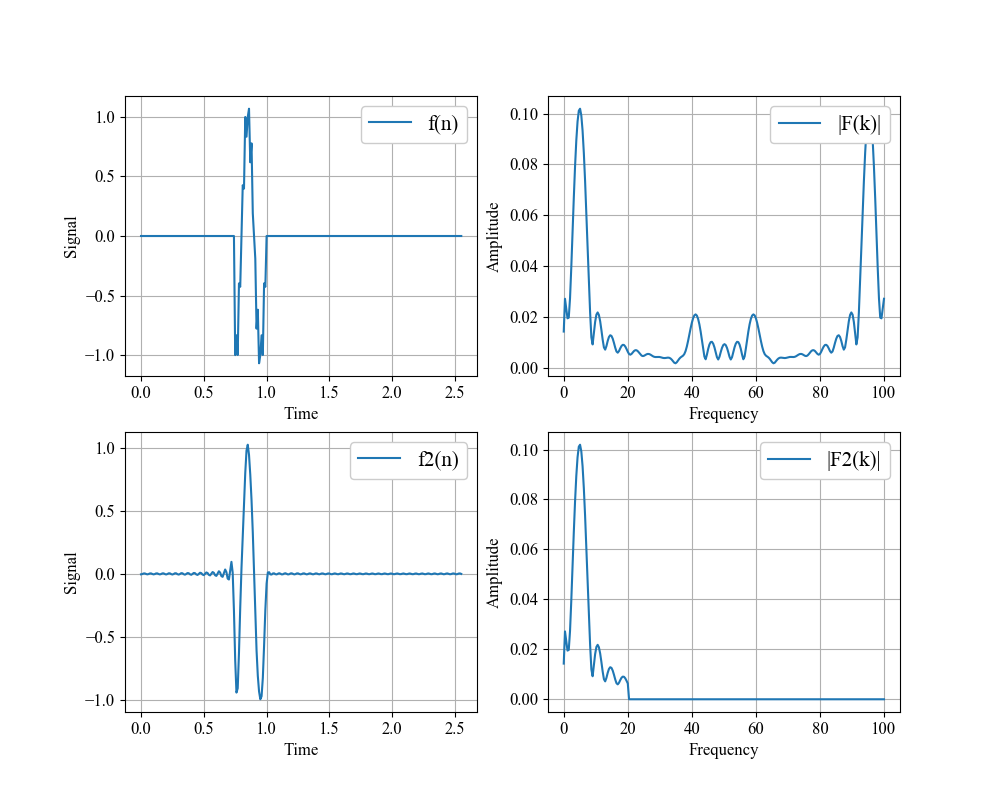
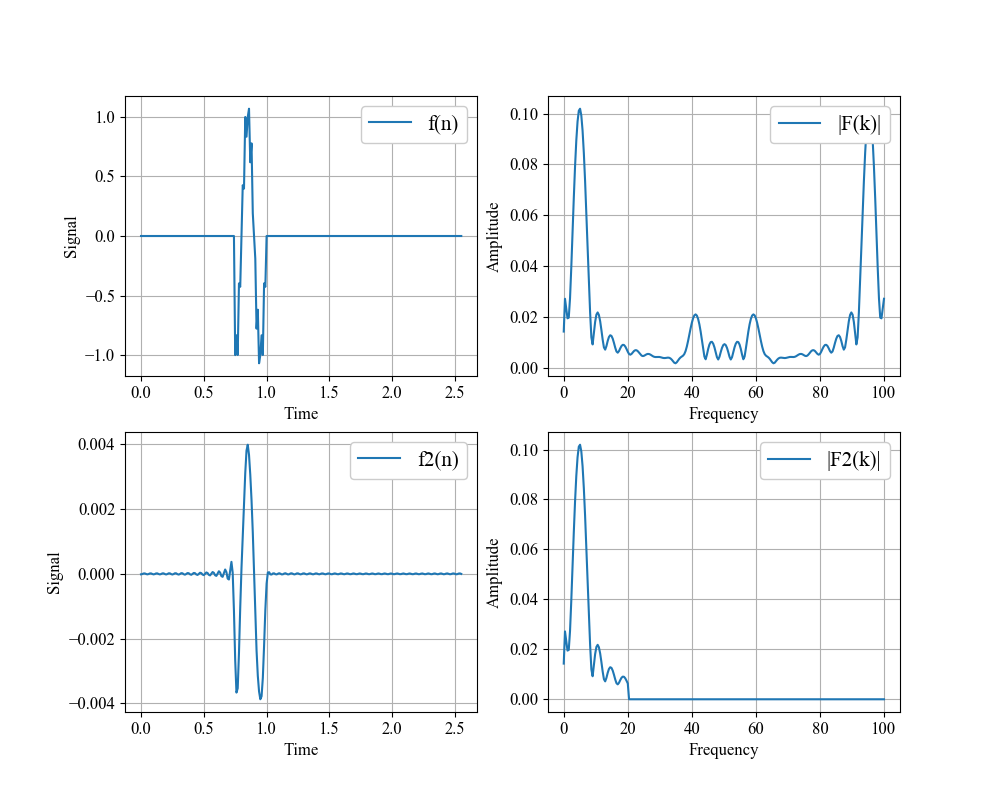
no message

diff --git a/python/numpy/fft/lpf/ex5.py b/python/numpy/fft/lpf/ex5.py
@@ -1,0 +1,90 @@
+# -*- coding: utf-8 -*-
+import numpy as np
+import matplotlib.pyplot as plt
+
+np.random.seed(0)  # 乱数seed固定
+
+# 簡単な信号の作成(正弦波 + ノイズ)
+N = 128  # サンプル数
+dt = 0.01  # サンプリング周期(sec)
+freq = 4  # 周波数(10Hz)
+amp = 1  # 振幅
+
+t = np.arange(0, N*dt, dt)  # 時間軸
+f = amp * np.sin(2*np.pi*freq*t) + np.random.randn(N)*0.3  # 信号
+
+# 高速フーリエ変換(FFT)
+F = np.fft.fft(f)
+F_abs = np.abs(F)  # 複素数を絶対値に変換
+F_abs_amp = F_abs / N * 2  # 振幅をもとの信号に揃える(交流成分2倍)
+F_abs_amp[0] = F_abs_amp[0] / 2  # 振幅をもとの信号に揃える(直流成分非2倍)
+
+# 周波数軸のデータ作成
+fq = np.linspace(0, 1.0/dt, N)  # 周波数軸　linspace(開始,終了,分割数)
+
+# フィルタリング①（周波数でカット）＊＊＊＊＊＊
+F2 = np.copy(F)  # FFT結果コピー
+fc = 10  # カットオフ（周波数）
+F2[(fq > fc)] = 0  # カットオフを超える周波数のデータをゼロにする（ノイズ除去）
+F2_abs = np.abs(F2)  # FFTの複素数結果を絶対値に変換
+F2_abs_amp = F2_abs / N * 2  # 振幅をもとの信号に揃える(交流成分2倍)
+F2_abs_amp[0] = F2_abs_amp[0] / 2  # 振幅をもとの信号に揃える(直流成分非2倍)
+F2_ifft = np.fft.ifft(F2)  # IFFT
+F2_ifft_real = F2_ifft.real * 2  # 実数部の取得、振幅を元スケールに戻す
+
+# フィルタリング②（振幅強度でカット）＊＊＊＊＊＊
+F3 = np.copy(F)  # FFT結果コピー
+ac = 0.2  # 振幅強度の閾値
+F3[(F_abs_amp < ac)] = 0  # 振幅が閾値未満はゼロにする（ノイズ除去）
+F3_abs = np.abs(F3)  # 複素数を絶対値に変換
+F3_abs_amp = F3_abs / N * 2  # 交流成分はデータ数で割って2倍
+F3_abs_amp[0] = F3_abs_amp[0] / 2  # 直流成分（今回は扱わないけど）は2倍不要
+F3_ifft = np.fft.ifft(F3)  # IFFT
+F3_ifft_real = F3_ifft.real  # 実数部の取得
+
+# グラフ表示
+fig = plt.figure(figsize=(12, 12))
+
+# グラフ表示
+# オリジナル信号
+fig.add_subplot(321)
+plt.xlabel('time(sec)', fontsize=14)
+plt.ylabel('signal', fontsize=14)
+plt.plot(t, f)
+
+# オリジナル信号 ->FFT
+fig.add_subplot(322)
+plt.xlabel('freqency(Hz)', fontsize=14)
+plt.ylabel('amplitude', fontsize=14)
+plt.plot(fq, F_abs_amp)
+
+# オリジナル信号 ->FFT ->周波数filter ->IFFT
+fig.add_subplot(323)
+plt.xlabel('time(sec)', fontsize=14)
+plt.ylabel('signal(freq.filter)', fontsize=14)
+plt.plot(t, F2_ifft_real)
+
+# オリジナル信号 ->FFT ->周波数filter
+fig.add_subplot(324)
+plt.xlabel('freqency(Hz)', fontsize=14)
+plt.ylabel('amplitude(freq.filter)', fontsize=14)
+# plt.vlines(x=[10], ymin=0, ymax=1, colors='r', linestyles='dashed')
+plt.fill_between([10, 100], [0, 0], [1, 1], color='g', alpha=0.2)
+plt.plot(fq, F2_abs_amp)
+
+# オリジナル信号 ->FFT ->振幅強度filter ->IFFT
+fig.add_subplot(325)
+plt.xlabel('time(sec)', fontsize=14)
+plt.ylabel('signal(amp.filter)', fontsize=14)
+plt.plot(t, F3_ifft_real)
+
+# オリジナル信号 ->FFT ->振幅強度filter
+fig.add_subplot(326)
+plt.xlabel('freqency(Hz)', fontsize=14)
+plt.ylabel('amplitude(amp.filter)', fontsize=14)
+# plt.hlines(y=[0.2], xmin=0, xmax=100, colors='r', linestyles='dashed')
+plt.fill_between([0, 100], [0, 0], [0.2, 0.2], color='g', alpha=0.2)
+plt.plot(fq, F3_abs_amp)
+
+plt.tight_layout()
+plt.show()

diff --git a/python/numpy/fft/lpf/ex1.py b/python/numpy/fft/lpf/ex1.py
@@ -6,12 +6,15 @@ import matplotlib.pyplot as plt
 N = 256            # サンプル数
 dt = 0.01          # サンプリング間隔
 fq1, fq2 = 5, 40    # 周波数
-fc = 20            # カットオフ周波数
+fc = 20  # カットオフ周波数
+A1, A2 = 20, 5
 t = np.arange(0, N*dt, dt)  # 時間軸
 freq = np.linspace(0, 1.0/dt, N)  # 周波数軸
 
 # 時間信号（周波数5の正弦波 + 周波数40の正弦波）の生成
-f = np.sin(2*np.pi*fq1*t) + 0.2 * np.sin(2*np.pi*fq2*t)
+f1 = A1 * np.sin(2 * np.pi * fq1 * t)
+f2 = A2 * np.sin(2*np.pi*fq2*t)
+f = f1 + f2
 
 # 高速フーリエ変換（周波数信号に変換）
 F = np.fft.fft(f)
@@ -33,43 +36,43 @@ f2 = np.fft.ifft(F2)
 f2 = np.real(f2*N)
 
 # グラフ表示
-plt.figure()
+fig = plt.figure(figsize=(10.0, 8.0))
 plt.rcParams['font.family'] = 'Times New Roman'
-plt.rcParams['font.size'] = 17
+plt.rcParams['font.size'] = 12
 
 # 時間信号（元）
 plt.subplot(221)
 plt.plot(t, f, label='f(n)')
-plt.xlabel("Time", fontsize=20)
-plt.ylabel("Signal", fontsize=20)
+plt.xlabel("Time", fontsize=12)
+plt.ylabel("Signal", fontsize=12)
 plt.grid()
-leg = plt.legend(loc=1, fontsize=25)
+leg = plt.legend(loc=1, fontsize=15)
 leg.get_frame().set_alpha(1)
 
 # 周波数信号(元)
 plt.subplot(222)
 plt.plot(freq, np.abs(F), label='|F(k)|')
-plt.xlabel('Frequency', fontsize=20)
-plt.ylabel('Amplitude', fontsize=20)
+plt.xlabel('Frequency', fontsize=12)
+plt.ylabel('Amplitude', fontsize=12)
 plt.grid()
-leg = plt.legend(loc=1, fontsize=25)
+leg = plt.legend(loc=1, fontsize=15)
 leg.get_frame().set_alpha(1)
 
 # 時間信号(処理後)
 plt.subplot(223)
 plt.plot(t, f2, label='f2(n)')
-plt.xlabel("Time", fontsize=20)
-plt.ylabel("Signal", fontsize=20)
+plt.xlabel("Time", fontsize=12)
+plt.ylabel("Signal", fontsize=12)
 plt.grid()
-leg = plt.legend(loc=1, fontsize=25)
+leg = plt.legend(loc=1, fontsize=15)
 leg.get_frame().set_alpha(1)
 
 # 周波数信号(処理後)
 plt.subplot(224)
 plt.plot(freq, np.abs(F2), label='|F2(k)|')
-plt.xlabel('Frequency', fontsize=20)
-plt.ylabel('Amplitude', fontsize=20)
+plt.xlabel('Frequency', fontsize=12)
+plt.ylabel('Amplitude', fontsize=12)
 plt.grid()
-leg = plt.legend(loc=1, fontsize=25)
+leg = plt.legend(loc=1, fontsize=15)
 leg.get_frame().set_alpha(1)
-plt.show()
+plt.savefig('C:/github/sample/python/numpy/fft/lpf/ex1.png')

diff --git a/document_comment/doxygen/python_template1.py b/document_comment/doxygen/python_template1.py
@@ -1,0 +1,62 @@
+# -*- coding: utf-8 -*-
+"""
+@file ファイル名
+@version バージョン番号
+@author 作成者・更新者
+@date パッケージの作成日時・更新日時
+@brief 簡単な説明
+@details 詳細な説明
+@warning 警告メッセージ
+@note メモ
+"""
+
+"""
+@package パッケージの名前
+@version バージョン番号
+@author 作成者・更新者
+@date 作成日時・更新日時
+@brief 説明(簡単)
+@details 説明（詳細）
+@warning 警告メッセージ
+@note メモ
+"""
+
+class MyClass(object):
+    """
+    @class クラス名
+    @brief 説明(簡単)
+    @details 説明（詳細）
+    @warning 警告メッセージ
+    @note メモ
+    """
+
+    def __init__(self,arg):
+        """
+        @fn __init__()
+        @brief 説明(簡単) [例：クラスの初期化メソッド（コンストラクタ）]
+        @param 引数の説明
+        @return 戻り値の詳細（例：None 戻り値なし）
+        @retval 戻り値の詳細：複数ある場合（例：sum_ab aとbの和（float））
+        @retval 戻り値の詳細：複数ある場合（例：sub_ab aとbの差（float））
+        @details 説明（詳細）
+        @warning 警告メッセージ
+        @note メモ
+        """
+        self.arg = arg
+
+    def func(self,a:float,b:float) -> tuple:
+        """
+        @fn func()
+        @brief 2つの値の和と差を計算します
+        @param a 1つ目の値（float）
+        @param b 2つ目の値（float)
+        @retval sum_ab aとbの和（float）
+        @retval sub_ab aとbの差（float）
+        @details 詳細な説明
+        @warning 警告メッセージ
+        @note メモ
+        """
+
+        sum_ab = a+b
+        sub_ab = a-b
+        return sum_ab, sub_ab
